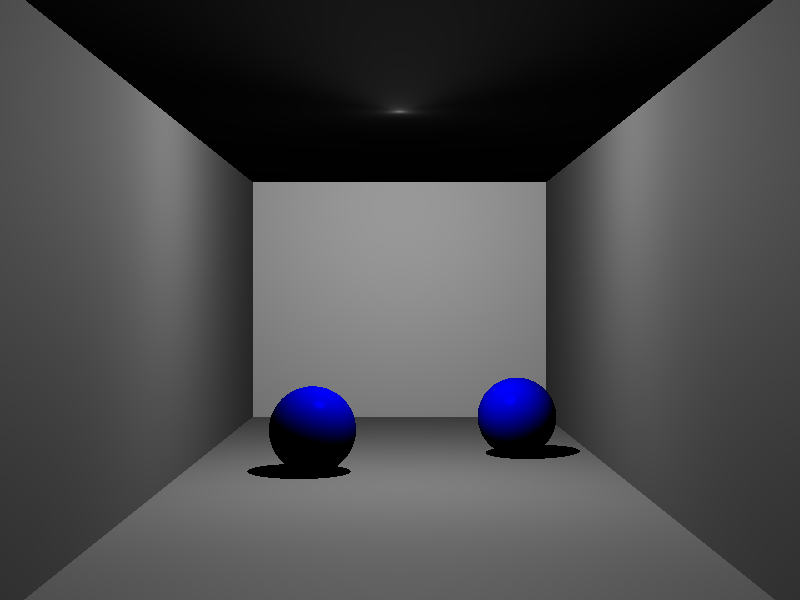
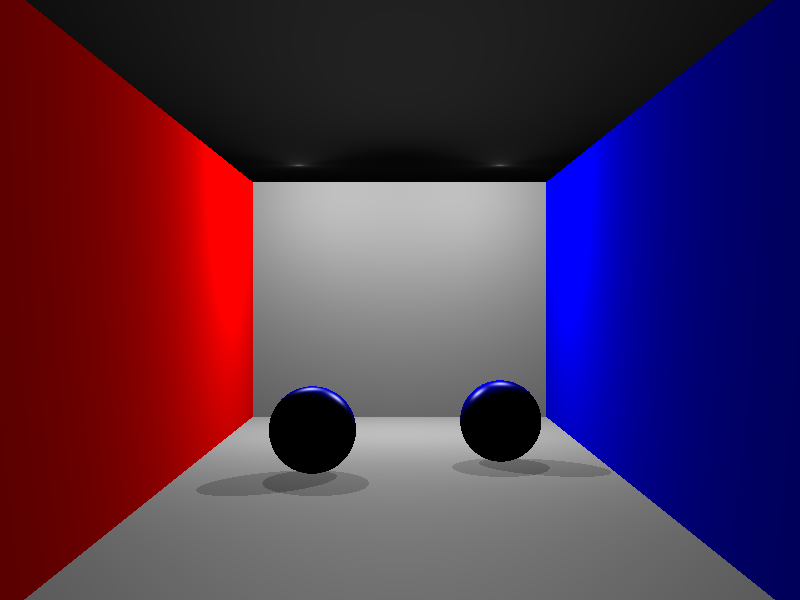
Schattenberechnung mit mehreren Lichtern / Subtraktionsmethode in RgbColor hinzugefügt

diff --git a/VCG_Raytracer/src/raytracer/Raytracer.java b/VCG_Raytracer/src/raytracer/Raytracer.java
@@ -67,7 +67,7 @@ public class Raytracer {
         Vec3 intersectionPoint = null;
         Vec3 intersectionPointShade = null;
         Intersection intersec = null;
-        boolean isInShade = false;
+        int shadeCount = 0;
 
         for(int h = 0; h < mRenderWindow.getHeight(); h++){
             for(int w = 0; w < mRenderWindow.getWidth(); w++){
@@ -90,29 +90,19 @@ public class Raytracer {
                 }
 
                 Shape shape = shapeList.get(intersecShape);
-
-                //Schattenberechnung beta//
-                for (int lightIndex = 0; lightIndex < lightList.size(); lightIndex++) {
-                    Ray shadowRay = new Ray(intersec.getIntersec());
-                    shadowRay.setDirection(lightList.get(0).getPosition());
-                    float shadowRayLength = shadowRay.endPoint.sub(shadowRay.startPoint).length();
-
-                    for (int shapeIndex = 0; shapeIndex < shapeList.size(); shapeIndex++) {
-                        if (shapeIndex != intersecShape) {
-                            intersectionPoint = shapeList.get(shapeIndex).intersect(shadowRay);
-                            if ((shadowRay.t != -1) && (shadowRay.t < shadowRayLength)) {
-                                isInShade = true;
-                                break;
-                            }
-                        }
-                    }
-                }
+                shadeCount = calculateShadow(shadeCount, intersec, intersectionPoint, intersecShape);
 
                 if(intersec != null){
-                    if(isInShade){
-                        mRenderWindow.setPixel(mBufferedImage, mBackgroundColor, new Vec2(w, h));
-                    }else{
+                    if(shadeCount == 0){
                         mRenderWindow.setPixel(mBufferedImage, shape.material.shade(shape.getNormal(primaryRay, intersec.getIntersec()), primaryRay.startPoint, lightList, intersec.getIntersec()), new Vec2(w, h));
+                    }else{
+                        RgbColor shade = shape.material.shade(shape.getNormal(primaryRay, intersec.getIntersec()), primaryRay.startPoint, lightList, intersec.getIntersec());
+
+                        for(int i = 0; i < shadeCount; i++){
+                            shade.sub(0.1f, 0.1f, 0.1f);
+                        }
+
+                        mRenderWindow.setPixel(mBufferedImage, shade, new Vec2(w, h));
                     }
                 }
                 else{
@@ -132,15 +122,11 @@ public class Raytracer {
 
                 }
 
-
-
-
-
                 minIntersec = 0;
                 intersecShape = 0;
                 intersectionPoint = null;
                 intersec = null;
-                isInShade = false;
+                shadeCount = 0;
             }
         }
 
@@ -173,7 +159,7 @@ public class Raytracer {
     public void createShapes(){
         //Kugel erstellen (Radius, Position, Material)
         Sphere sphere1 = new Sphere(1f, new Vec3 (2, -3, -3f), materialList.get(1));
-        Sphere sphere2 = new Sphere(1f, new Vec3(-3f, -3, -3), materialList.get(1));
+        Sphere sphere2 = new Sphere(1f, new Vec3(-2.5f, -3, -1), materialList.get(1));
         //Ebene erstellen (Postiton, Normale, Material)
         Plane topPlane = new Plane(new Vec3(0f, 4f, 0f), new Vec3(0, -1, 0), materialList.get(0));
         Plane bottomPlane = new Plane(new Vec3(0f, -4f, 0f), new Vec3(0, 1, 0), materialList.get(0));
@@ -192,16 +178,31 @@ public class Raytracer {
 
     public void createLight(){
         //Licht erstellen (Lichtart, Position, Farbe, Ambient-Farbe)
-        Light light0 = new Light(0, new Vec3(0, 3.9f, -5f), new RgbColor(1f, 1f, 1f), new RgbColor(0.0f, 0.0f, 0.0f));
-        //Light light1 = new Light(0, new Vec3(0, -3.9f, 5), new RgbColor(0.1f, 1f, 0.8f), new RgbColor(0.0f, 0.0f, 0.0f));
+        Light light0 = new Light(0, new Vec3(3f, 3.9f, 5f), new RgbColor(0.8f, 0.8f, 0.8f), new RgbColor(0.0f, 0.0f, 0.0f));
+        Light light1 = new Light(0, new Vec3(-3f, 3.9f, 5f), new RgbColor(0.8f, 0.8f, 0.8f), new RgbColor(0.0f, 0.0f, 0.0f));
         //Light light2 = new Light(0, new Vec3(10, -4, -3), new RgbColor(1f, 0.1f, 0.8f), new RgbColor(0.0f, 0.0f, 0.0f));
         //Ligts zur Liste hinzugen
         lightList.add(0, light0);
-        //lightList.add(1, light1);
+        lightList.add(1, light1);
         //lightList.add(2, light2);
     }
 
+    public int calculateShadow(int shadeCount, Intersection intersec, Vec3 intersecP, int intersecShape){
+        for (int lightIndex = 0; lightIndex < lightList.size(); lightIndex++) {
+            Ray shadowRay = new Ray(intersec.getIntersec());
+            shadowRay.setDirection(lightList.get(lightIndex).getPosition());
+            float shadowRayLength = shadowRay.endPoint.sub(shadowRay.startPoint).length();
 
+            for(int shapeIndex = 0; shapeIndex < shapeList.size(); shapeIndex++){
+                if(shapeIndex != intersecShape){
+                    intersecP = shapeList.get(shapeIndex).intersect(shadowRay);
+                    if((shadowRay.t != -1) && (shadowRay.t < shadowRayLength)){
+                        shadeCount++;
+                    }
+                }
+            }
+        }
 
-
+        return shadeCount;
+    }
 }

diff --git a/VCG_Raytracer/src/utils/RgbColor.java b/VCG_Raytracer/src/utils/RgbColor.java
@@ -38,6 +38,14 @@ public class RgbColor {
         clamp();
     }
 
+    public void sub(float r, float g, float b){
+        colors.x -= r;
+        colors.y -= g;
+        colors.z -= g;
+
+        clamp();
+    }
+
     public RgbColor add(RgbColor color){
         return new RgbColor( colors.add(color.colors) );
     }
